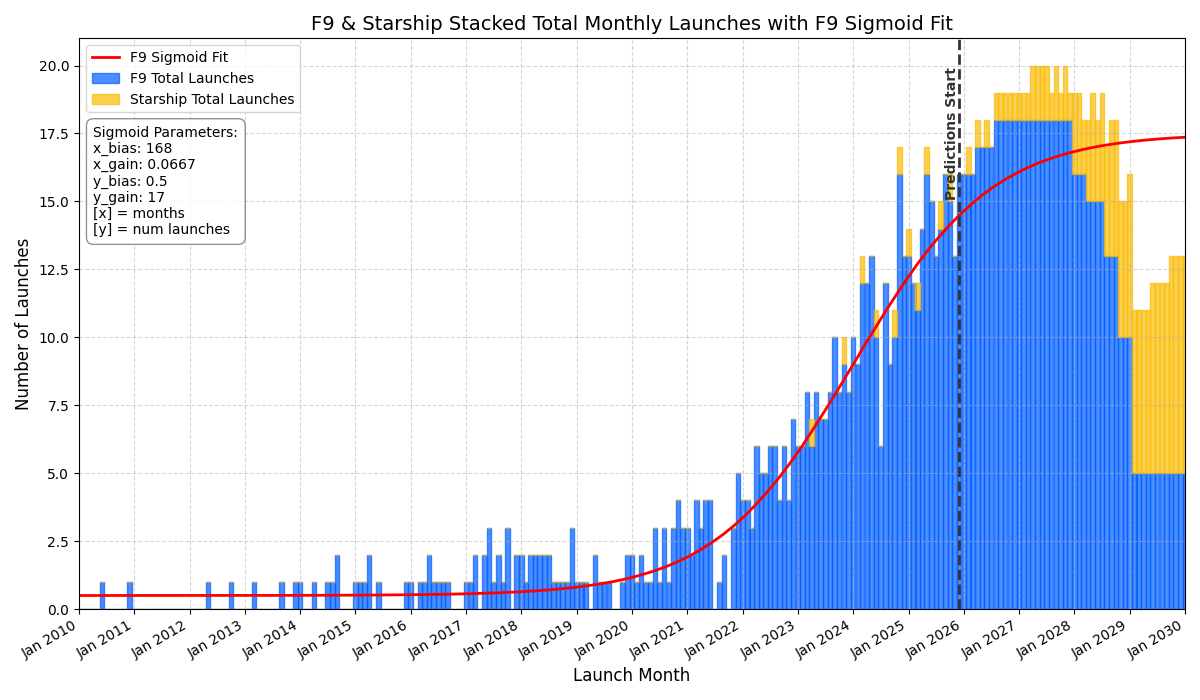
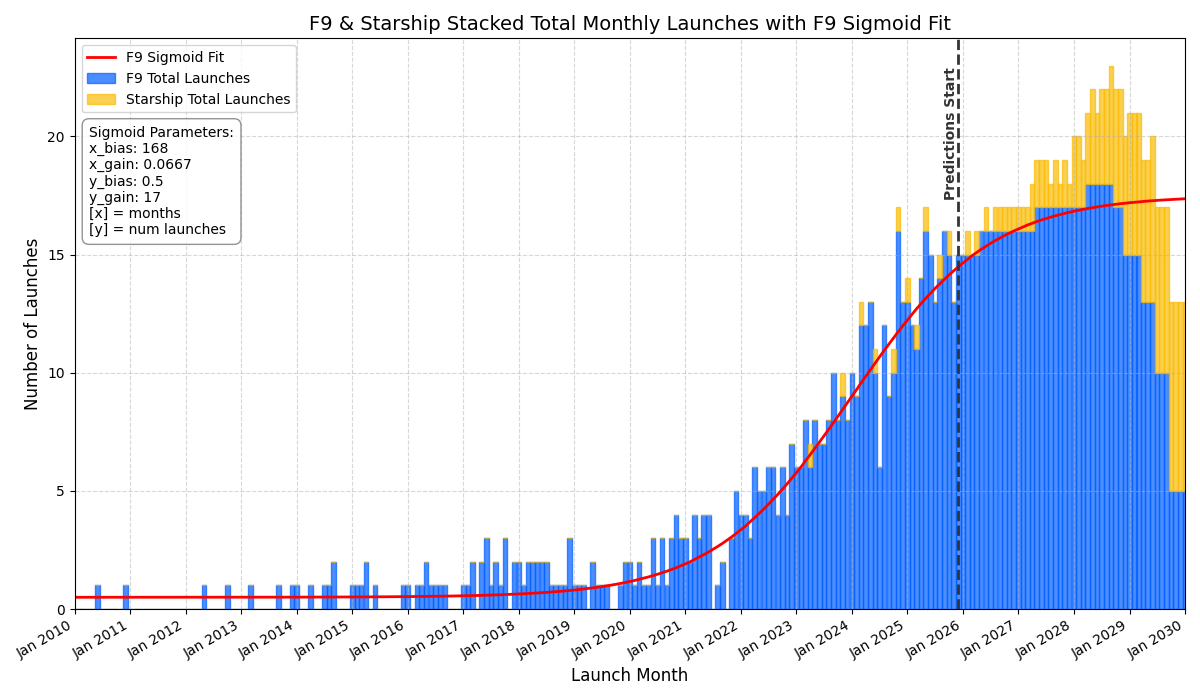
Update F9 cadence prediction

diff --git a/_posts/2025-12-26-falcon-9-cadence.md b/_posts/2025-12-26-falcon-9-cadence.md
@@ -126,7 +126,7 @@ My assumption is that Falcon 9 Starlink launches will begin to be phased out aro
 
 This means around the begin of 2028 will begin the collapse of Falcon 9 launch cadence, as Starlink launches are around 75% of Falcon 9 launches.
 
-The above graph shows 1,356 total Falcon 9 launches from 2010 to 2029. For reference, the Soyuz family of rockets has launched ~1,050 times in total. The American record was previously held by the Delta II at 155 launches until the Falcon 9 took the title.
+The above graph shows 1,314 total Falcon 9 launches from 2010 to 2029. For reference, the Soyuz family of rockets has launched ~1,050 times in total. The American record was previously held by the Delta II at 155 launches until the Falcon 9 took the title.
 
 ![Image](/assets/images/falcon-9-cadence/global_launches_vs_year_by_general_launch_payload_type_1957_present.png){:height="400"}  
 <i>[Expanded Image](/assets/images/falcon-9-cadence/global_launches_vs_year_by_general_launch_payload_type_1957_present.png)</i>
